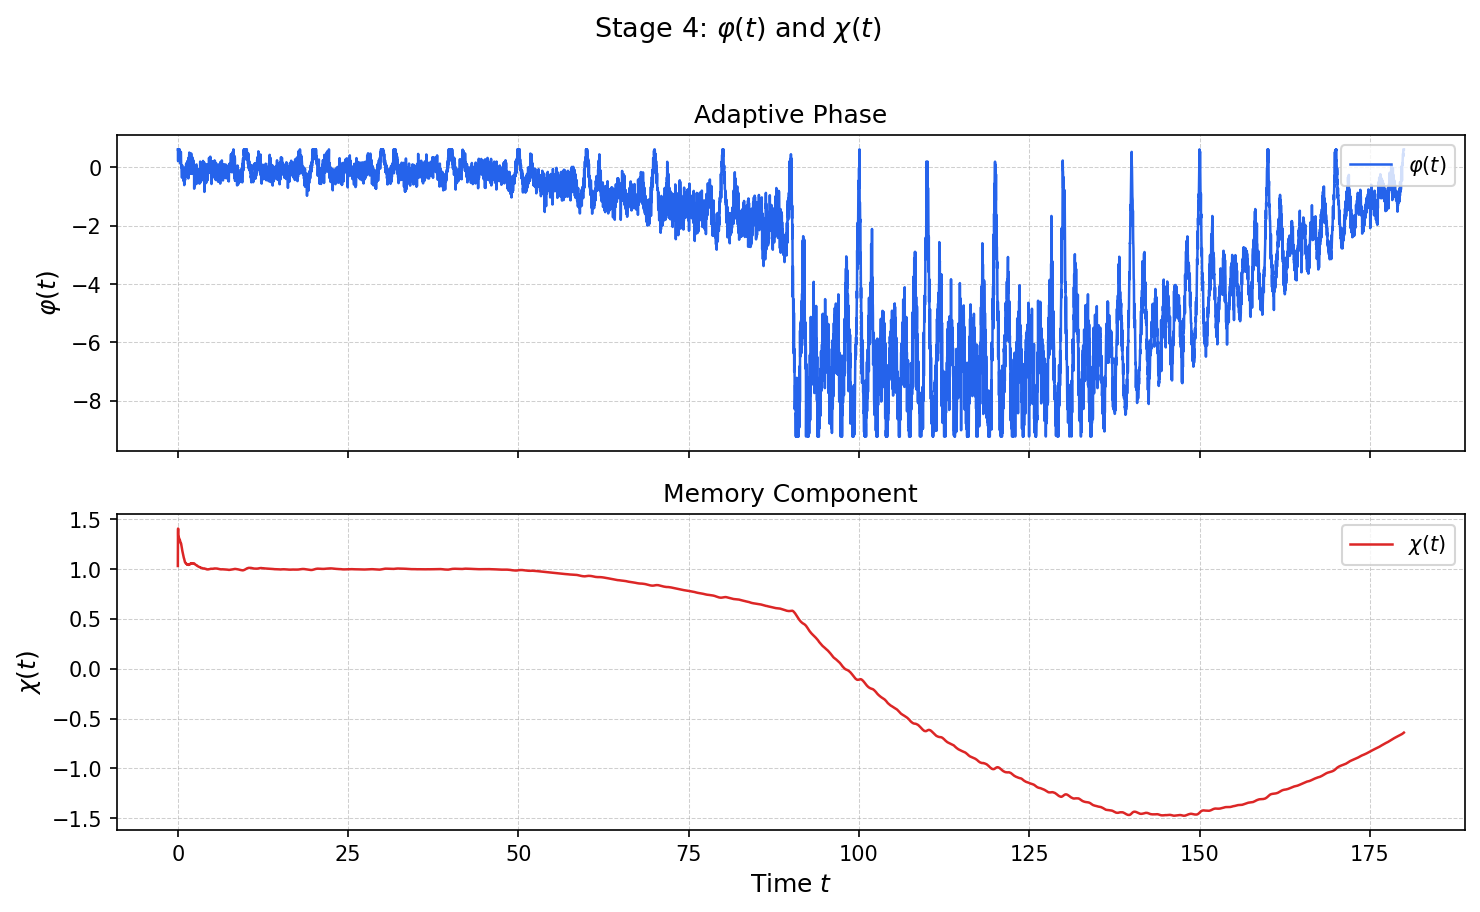
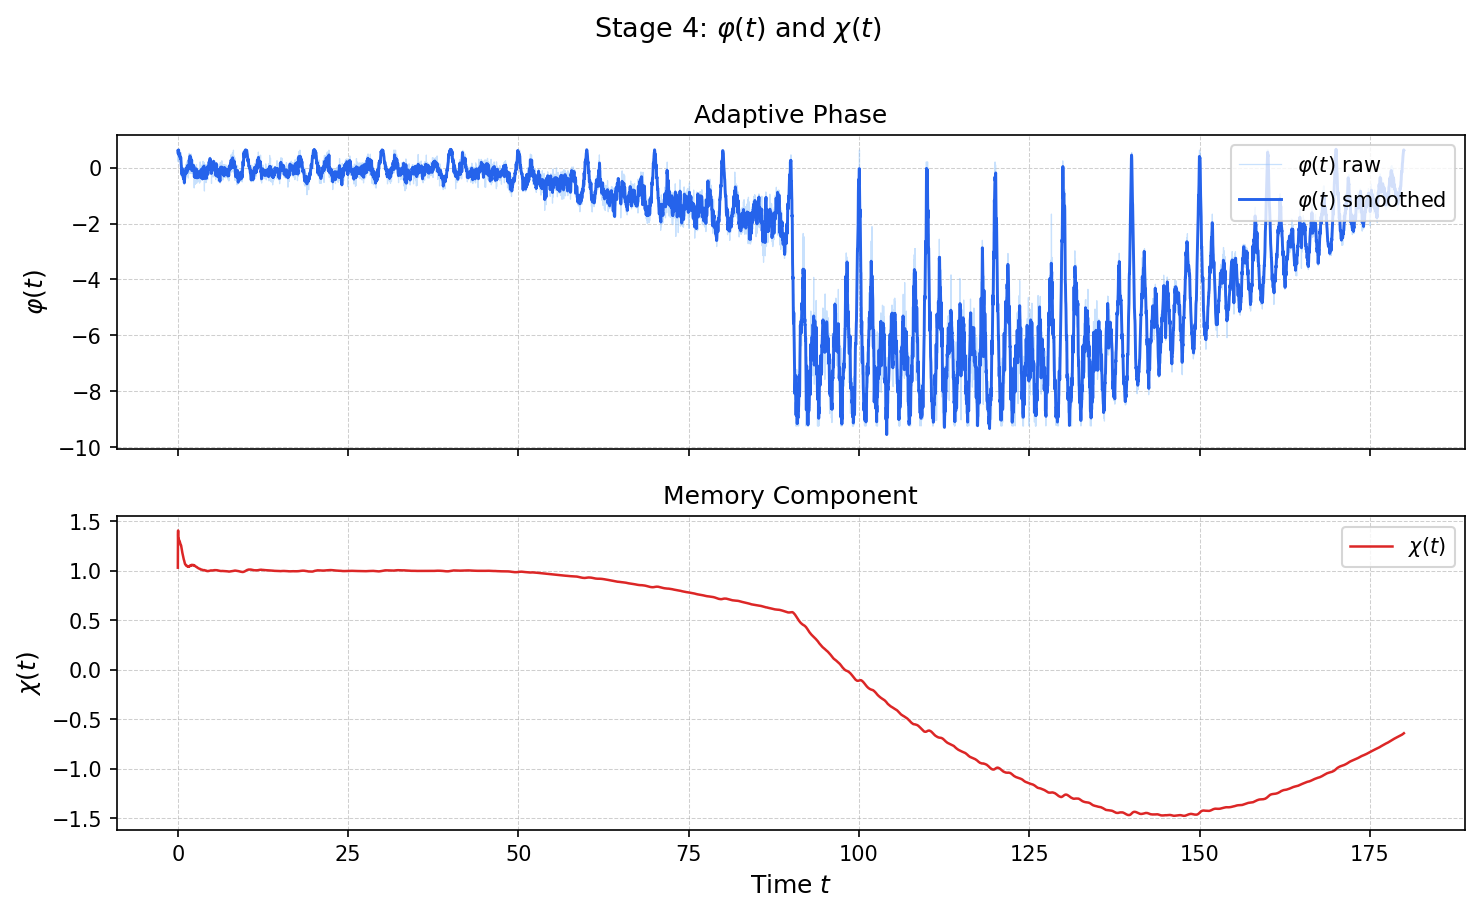
feat: apply visual-only refinements to Stage 4 figures
Agent-Logs-Url: https://github.com/dfeen87/Cell-DNA-Dynamics/sessions/ff391b31-f815-4af5-a57f-6461c4557555

diff --git a/src/stage4_spiral_time/generate_figures.py b/src/stage4_spiral_time/generate_figures.py
@@ -31,6 +31,7 @@ import matplotlib
 matplotlib.use("Agg")
 import matplotlib.pyplot as plt
 from mpl_toolkits.mplot3d import Axes3D  # noqa: F401 – registers 3D projection
+from scipy.signal import savgol_filter
 
 # ── Allow running from repository root or from this file's directory ──────────
 _REPO_ROOT = os.path.abspath(os.path.join(os.path.dirname(__file__), "..", ".."))
@@ -70,11 +71,28 @@ def plot_phi_chi_curves(
     chi: np.ndarray,
     out_path: str,
     title_suffix: str = "",
+    phi_smooth: np.ndarray | None = None,
 ) -> None:
-    """Plot φ(t) and χ(t) on separate subplots and save."""
+    """Plot φ(t) and χ(t) on separate subplots and save.
+
+    Parameters
+    ----------
+    phi_smooth : np.ndarray or None, optional
+        If provided, plot this visually-smoothed curve in the foreground
+        while drawing the raw *phi* as a faint background trace.  This is
+        used for the manuscript figure; the debug figure passes ``None`` so
+        only the raw curve is shown.
+    """
     fig, axes = plt.subplots(2, 1, figsize=(10, 6), sharex=True)
 
-    axes[0].plot(t, phi, color="#2563EB", linewidth=1.2, label=r"$\varphi(t)$")
+    if phi_smooth is not None:
+        # Manuscript mode: faint raw trace + bold smoothed overlay
+        axes[0].plot(t, phi, color="#93C5FD", linewidth=0.6, alpha=0.5,
+                     label=r"$\varphi(t)$ raw")
+        axes[0].plot(t, phi_smooth, color="#2563EB", linewidth=1.4,
+                     label=r"$\varphi(t)$ smoothed")
+    else:
+        axes[0].plot(t, phi, color="#2563EB", linewidth=1.2, label=r"$\varphi(t)$")
     axes[0].set_ylabel(r"$\varphi(t)$", fontsize=12)
     axes[0].set_title("Adaptive Phase", fontsize=12)
     axes[0].legend(loc="upper right", fontsize=10)
@@ -102,6 +120,7 @@ def plot_spiral_embedding(
     out_path: str,
     robust_scale: bool = True,
     title_suffix: str = "",
+    show_lines: bool = True,
 ) -> None:
     """Plot the 3-D spiral-time operator embedding and save.
 
@@ -124,6 +143,10 @@ def plot_spiral_embedding(
         axis so that no single component dominates the embedding.
     title_suffix : str, optional
         Appended to the figure title (e.g. ``"[debug]"``).
+    show_lines : bool, optional
+        If ``True`` (default), draw a grey line connecting consecutive
+        points.  Set to ``False`` for the manuscript figure to emphasise
+        the point-cloud colour gradient without visual clutter.
     """
     t_norm = (result.t - result.t.min()) / (result.t.max() - result.t.min() + 1e-15)
 
@@ -146,12 +169,13 @@ def plot_spiral_embedding(
         s=6,
         alpha=0.8,
     )
-    ax.plot(
-        x, y, z,
-        color="grey",
-        linewidth=0.4,
-        alpha=0.4,
-    )
+    if show_lines:
+        ax.plot(
+            x, y, z,
+            color="grey",
+            linewidth=0.4,
+            alpha=0.4,
+        )
 
     ax.set_xlabel(r"$\partial_t f$ (real)", fontsize=10, labelpad=6)
     ax.set_ylabel(r"$\dot{\varphi}\,(v_\varphi\cdot\nabla f)$", fontsize=10, labelpad=6)
@@ -193,11 +217,17 @@ def main() -> None:
         debug_dir=_DEBUG_DIR,
     )
 
-    # ── 4. Manuscript φ(t)/χ(t) curves (clipped φ, standardised χ) ───────────
+    # ── 4. Manuscript φ(t)/χ(t) curves (clipped φ, light SG smoothing) ──────────
     phi_clipped = robust_clip_for_plot(phi_raw)
+    # Light visual-only SG smoothing for the manuscript (window=7, polyorder=2).
+    # The raw phi_clipped curve is retained for the debug plot and all numerical
+    # computations; smoothing is strictly for manuscript readability.
+    _sg_wl = min(7, len(phi_clipped) if len(phi_clipped) % 2 == 1 else len(phi_clipped) - 1)
+    phi_smooth_for_plot = savgol_filter(phi_clipped, window_length=_sg_wl, polyorder=2)
     plot_phi_chi_curves(
         t, phi_clipped, chi_standardized,
         out_path=os.path.join(_FIG_DIR, "phi_chi_curves.png"),
+        phi_smooth=phi_smooth_for_plot,
     )
 
     # ── 5. Debug φ(t)/χ(t) curves (raw, unclipped) ───────────────────────────
@@ -221,19 +251,21 @@ def main() -> None:
         smooth=True,
     )
 
-    # ── 7. Manuscript spiral embedding (robust-scaled axes) ───────────────────
+    # ── 7. Manuscript spiral embedding (robust-scaled axes, no connecting lines) ─
     plot_spiral_embedding(
         result,
         out_path=os.path.join(_FIG_DIR, "spiral_embedding.png"),
         robust_scale=True,
+        show_lines=False,
     )
 
-    # ── 8. Debug spiral embedding (raw axes, no scaling) ─────────────────────
+    # ── 8. Debug spiral embedding (raw axes, no scaling, with connecting lines) ──
     plot_spiral_embedding(
         result,
         out_path=os.path.join(_DEBUG_DIR, "spiral_embedding_debug.png"),
         robust_scale=False,
         title_suffix="[debug]",
+        show_lines=True,
     )
 
 
